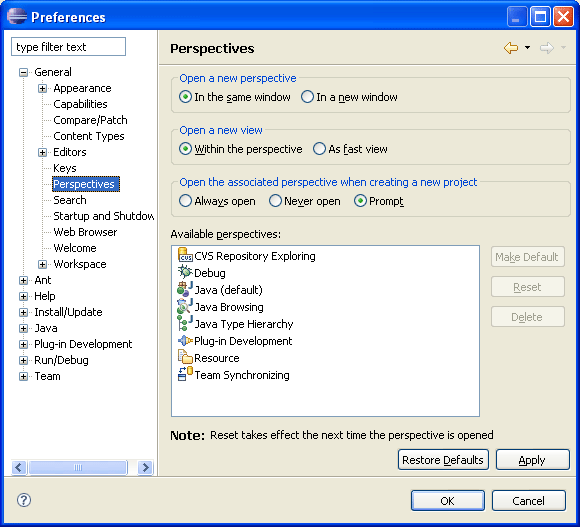
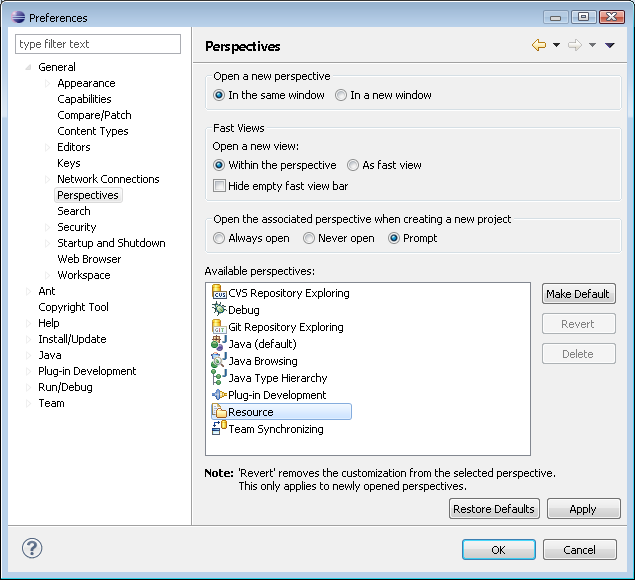
Fixed bug 357335: Perspective preference page doc: replace 'Reset' with 'Revert'

Changed region(s): [[0.0, 0.0, 1.0, 1.0]]

diff --git a/bundles/org.eclipse.platform.doc.user/gettingStarted/qs-43e.htm b/bundles/org.eclipse.platform.doc.user/gettingStarted/qs-43e.htm
@@ -1,7 +1,7 @@
 <!DOCTYPE HTML PUBLIC "-//W3C//DTD HTML 4.0 Transitional//EN"><html lang="en">
 <HEAD>
 
-<meta name="copyright" content="Copyright (c) IBM Corporation and others 2000, 2010. This page is made available under license. For full details see the LEGAL in the documentation book that contains this page." >
+<meta name="copyright" content="Copyright (c) IBM Corporation and others 2000, 2011. This page is made available under license. For full details see the LEGAL in the documentation book that contains this page." >
 
 <META HTTP-EQUIV="Content-Type" CONTENT="text/html; charset=ISO-8859-1">
 <META HTTP-EQUIV="Content-Style-Type" CONTENT="text/css">
@@ -57,7 +57,7 @@ perspectives</h3>
   </li>
 </ol>
 <p CLASS="Para">While the Resource perspective has been changed, there is a way 
-  to get back the original layout. To reset the Resource perspective to its original 
+  to get back the original layout. To revert the Resource perspective to its original 
   layout:</p>
 <ol>
   <li> 
@@ -67,7 +67,7 @@ perspectives</h3>
     <p CLASS="Para">Expand <b>General</b> and select <b>Perspectives</b>.</p>
   </li>
   <li> 
-    <p CLASS="Para">Select the <b>Resource</b> prespective and then click <b>Reset</b> on the right side.</p> 
+    <p CLASS="Para">Select the <b>Resource</b> perspective and then click <b>Revert</b> on the right side.</p> 
     <blockquote> 
       <p CLASS="Para"><img src="../images/Image71_pers_reset.png" alt="Reset Perspective" border="0"></p></blockquote>
   </li>
